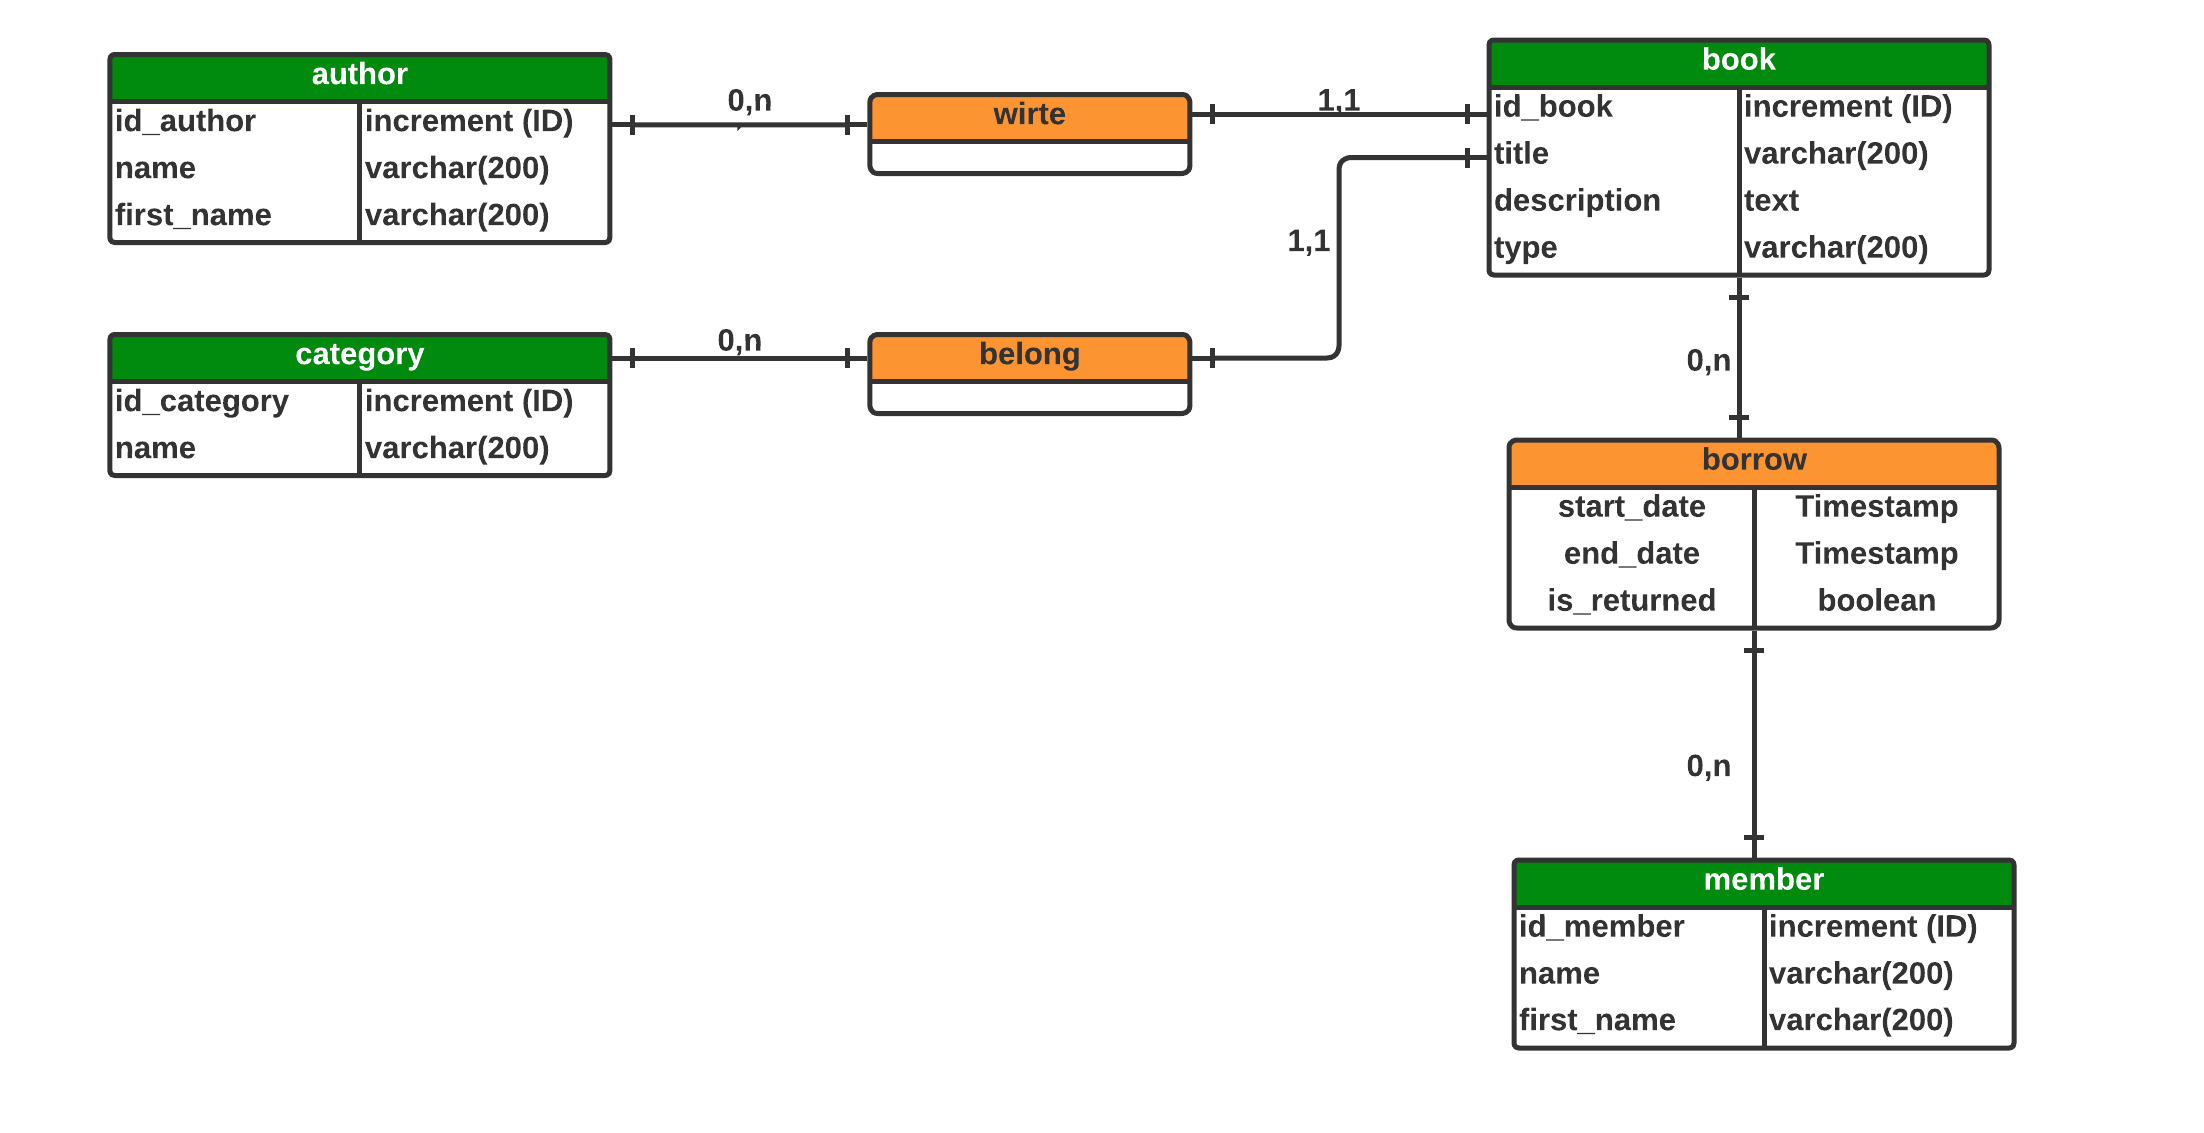
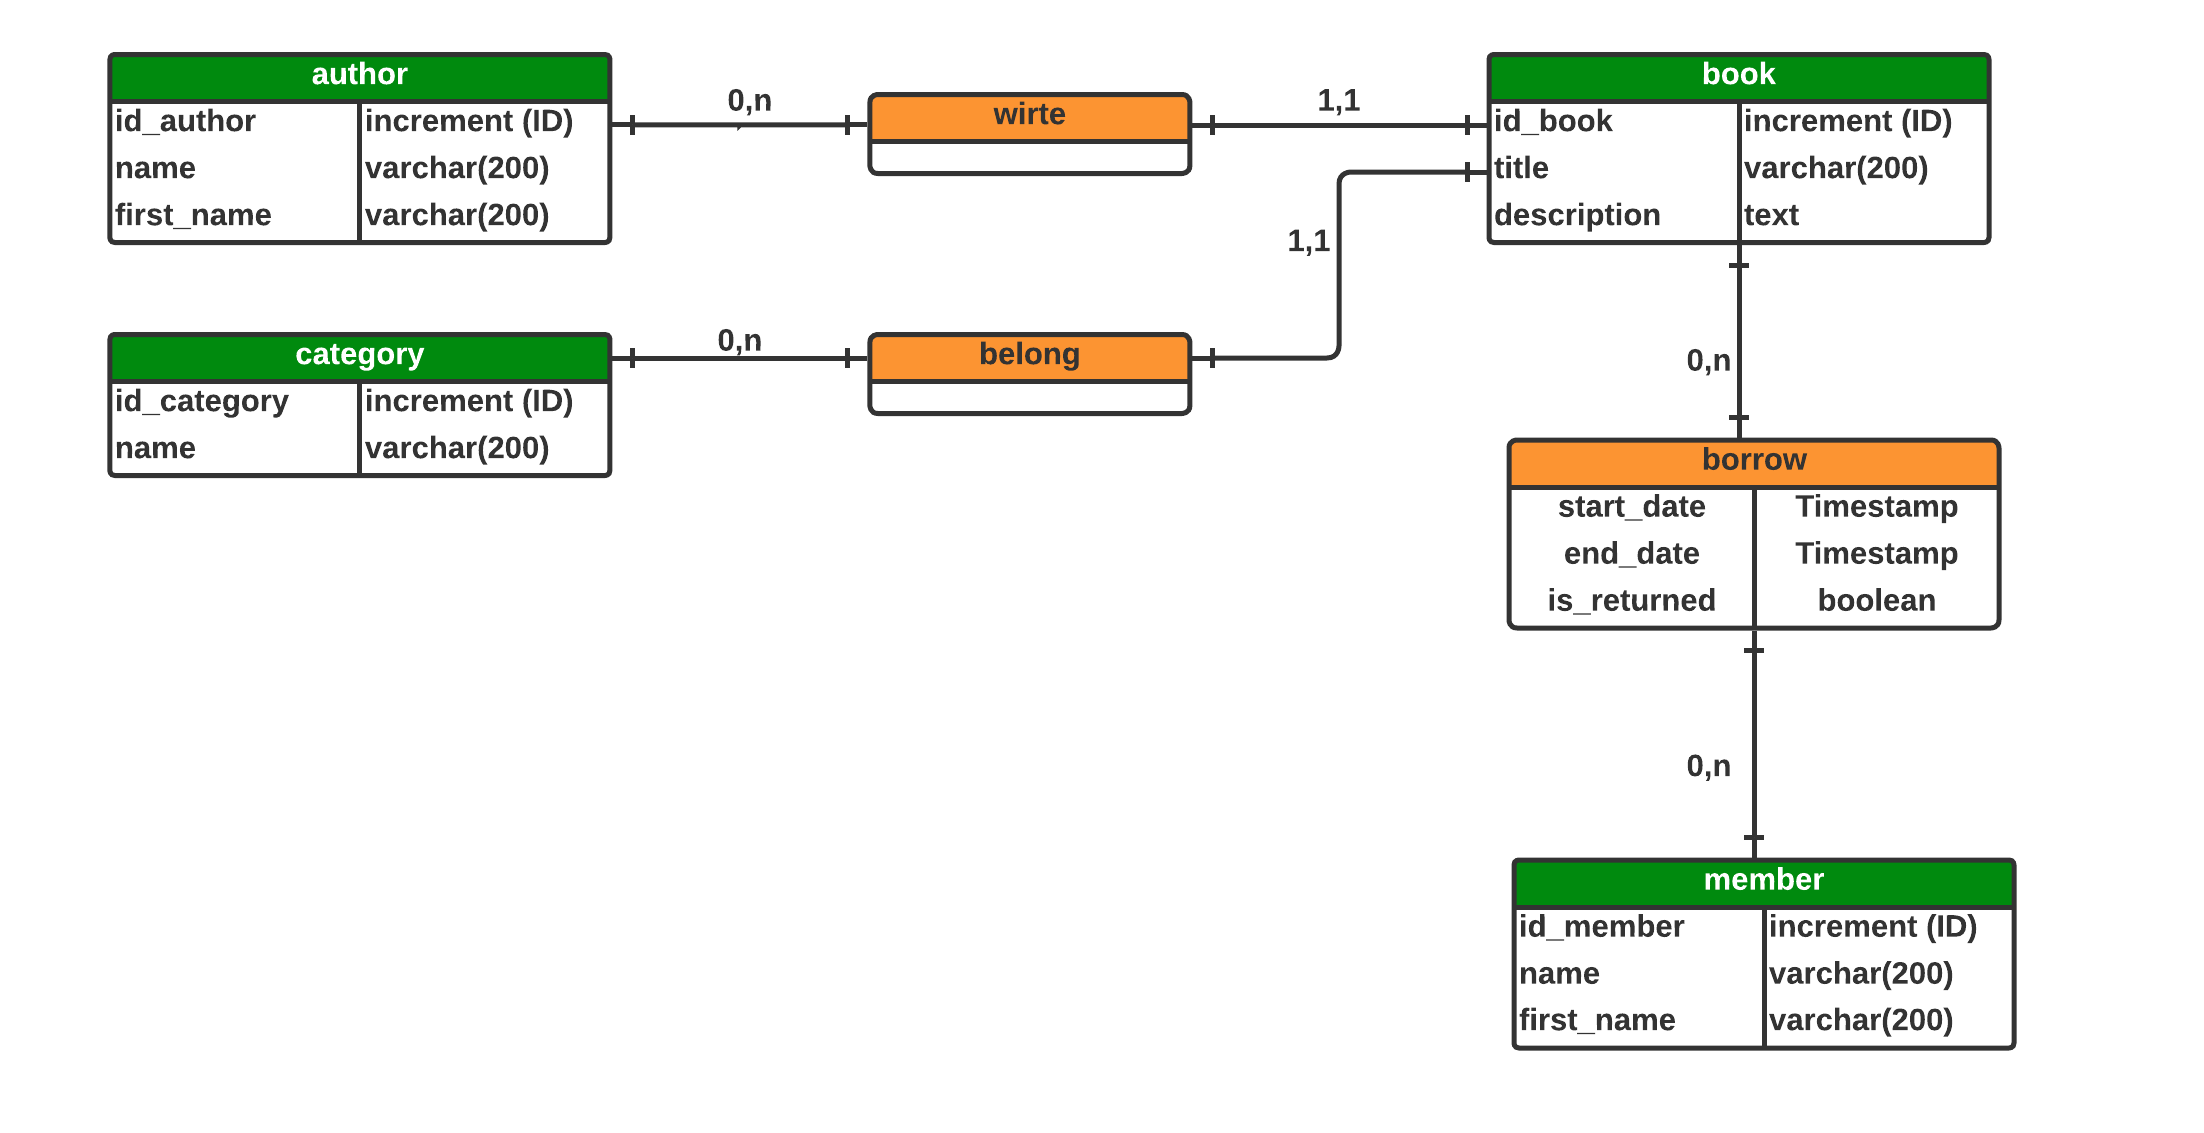
refactor: make some code refaction

Changed region(s): [[0.5245, 0.0309, 0.9256, 0.2471]]

diff --git a/src/main/java/com/sanda/prog2/repository/BorrowRepository.java b/src/main/java/com/sanda/prog2/repository/BorrowRepository.java
@@ -91,8 +91,7 @@ public class BorrowRepository{
 
     public Borrow updateBorrow(Borrow borrow) throws SQLException {
         if(this.getBorrowById(borrow.getIdBorrow()) != null){
-            String query =
-                "UPDATE \"borrow\" SET \"id_book\" = ? , \"id_member\" = ?" +
+            String query = "UPDATE \"borrow\" SET \"id_book\" = ? , \"id_member\" = ?" +
                 "\"start_date\"= ?, \"end_date\" = ? , \"is_returned\" = ? WHERE id_borrow = ?";
             PreparedStatement statement = this.connection.prepareStatement(query);
             statement.setInt(1,borrow.getIdBook());
@@ -130,8 +129,7 @@ public class BorrowRepository{
     }
 
     public Borrow createBorrow(Borrow borrow) throws SQLException {
-        String query =
-                "INSERT INTO \"borrow\"(\"id_book\",\"id_member\",\"start_date\",\"end_date\",\"is_returned\")" +
+        String query = "INSERT INTO \"borrow\"(\"id_book\",\"id_member\",\"start_date\",\"end_date\",\"is_returned\")" +
                 " VALUES (?,?,?,?,?)";
         PreparedStatement statement = this.connection.prepareStatement(query);
         statement.setInt(1,borrow.getIdBook());

diff --git a/src/main/java/com/sanda/prog2/repository/MemberRepository.java b/src/main/java/com/sanda/prog2/repository/MemberRepository.java
@@ -70,8 +70,7 @@ public class MemberRepository {
 
     public Member updateMember(Member member) throws SQLException {
         if(this.getMemberById(member.getIdMember()) != null){
-            String query =
-                    "UPDATE \"member\" SET \"name\" = ? , \"first_name\" = ? WHERE \"id_member\" = ?";
+            String query = "UPDATE \"member\" SET \"name\" = ? , \"first_name\" = ? WHERE \"id_member\" = ?";
             PreparedStatement statement = this.connection.prepareStatement(query);
             statement.setString(1,member.getName());
             statement.setString(2,member.getFirstName());

diff --git a/src/main/java/com/sanda/prog2/repository/AuthorRepository.java b/src/main/java/com/sanda/prog2/repository/AuthorRepository.java
@@ -70,8 +70,7 @@ public class AuthorRepository {
 
     public Author updateAuthor(Author author) throws SQLException {
         if(this.getAuthorById(author.getIdAuthor()) != null){
-            String query =
-                "UPDATE \"author\" SET \"name\" = ? , \"first_name\" = ? WHERE \"id_author\" = ?";
+            String query = "UPDATE \"author\" SET \"name\" = ? , \"first_name\" = ? WHERE \"id_author\" = ?";
             PreparedStatement statement = this.connection.prepareStatement(query);
             statement.setString(1,author.getName());
             statement.setString(2,author.getFirstName());

diff --git a/src/main/java/com/sanda/prog2/repository/BookRepository.java b/src/main/java/com/sanda/prog2/repository/BookRepository.java
@@ -70,8 +70,7 @@ public class BookRepository {
 
     public Book updateBook(Book book) throws SQLException {
         if(this.getBookById(book.getIdBook()) != null){
-            String query =
-                    "UPDATE \"book\" SET \"name\" = ? , \"first_name\" = ? WHERE \"id_book\" = ?";
+            String query = "UPDATE \"book\" SET \"title\" = ? , \"description\" = ? WHERE \"id_book\" = ?";
             PreparedStatement statement = this.connection.prepareStatement(query);
             statement.setString(1,book.getTitle());
             statement.setString(2,book.getDescription());

diff --git a/src/main/java/com/sanda/prog2/model/Author.java b/src/main/java/com/sanda/prog2/model/Author.java
@@ -1,6 +1,8 @@
 package com.sanda.prog2.model;
 
-import lombok.*;
+import lombok.Getter;
+import lombok.NoArgsConstructor;
+import lombok.Setter;
 
 import java.util.Objects;
 

diff --git a/src/main/java/com/sanda/prog2/model/Member.java b/src/main/java/com/sanda/prog2/model/Member.java
@@ -1,6 +1,8 @@
 package com.sanda.prog2.model;
 
-import lombok.*;
+import lombok.Getter;
+import lombok.NoArgsConstructor;
+import lombok.Setter;
 
 import java.util.Objects;
 
